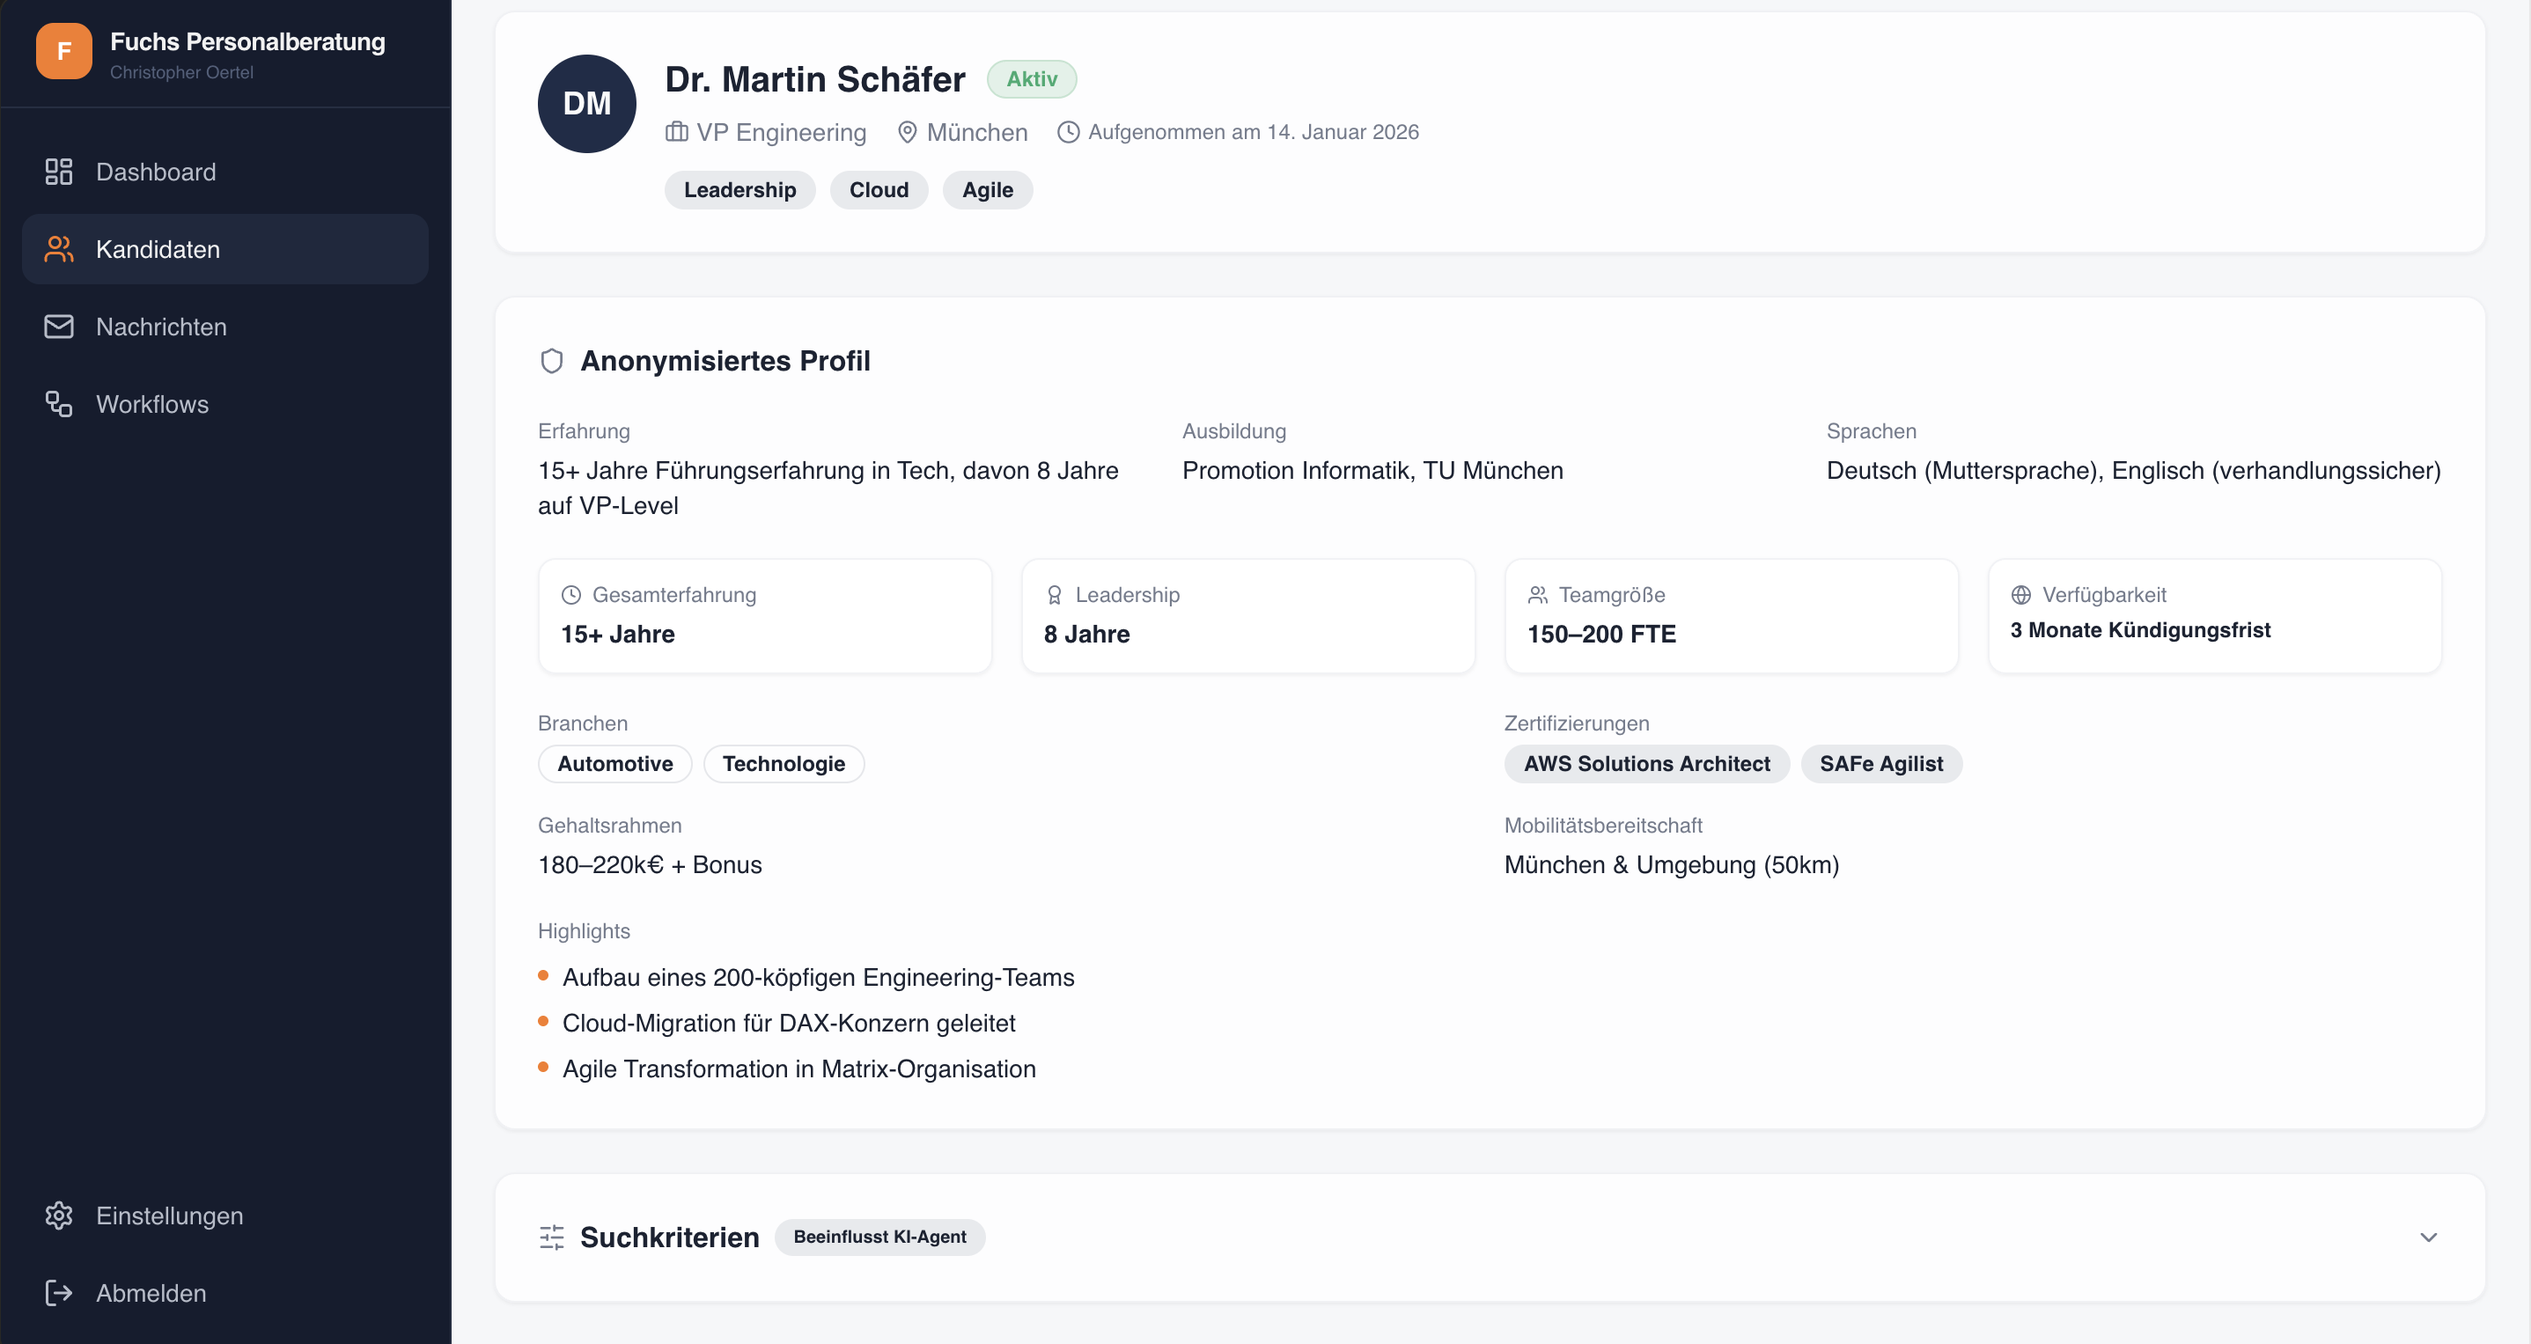
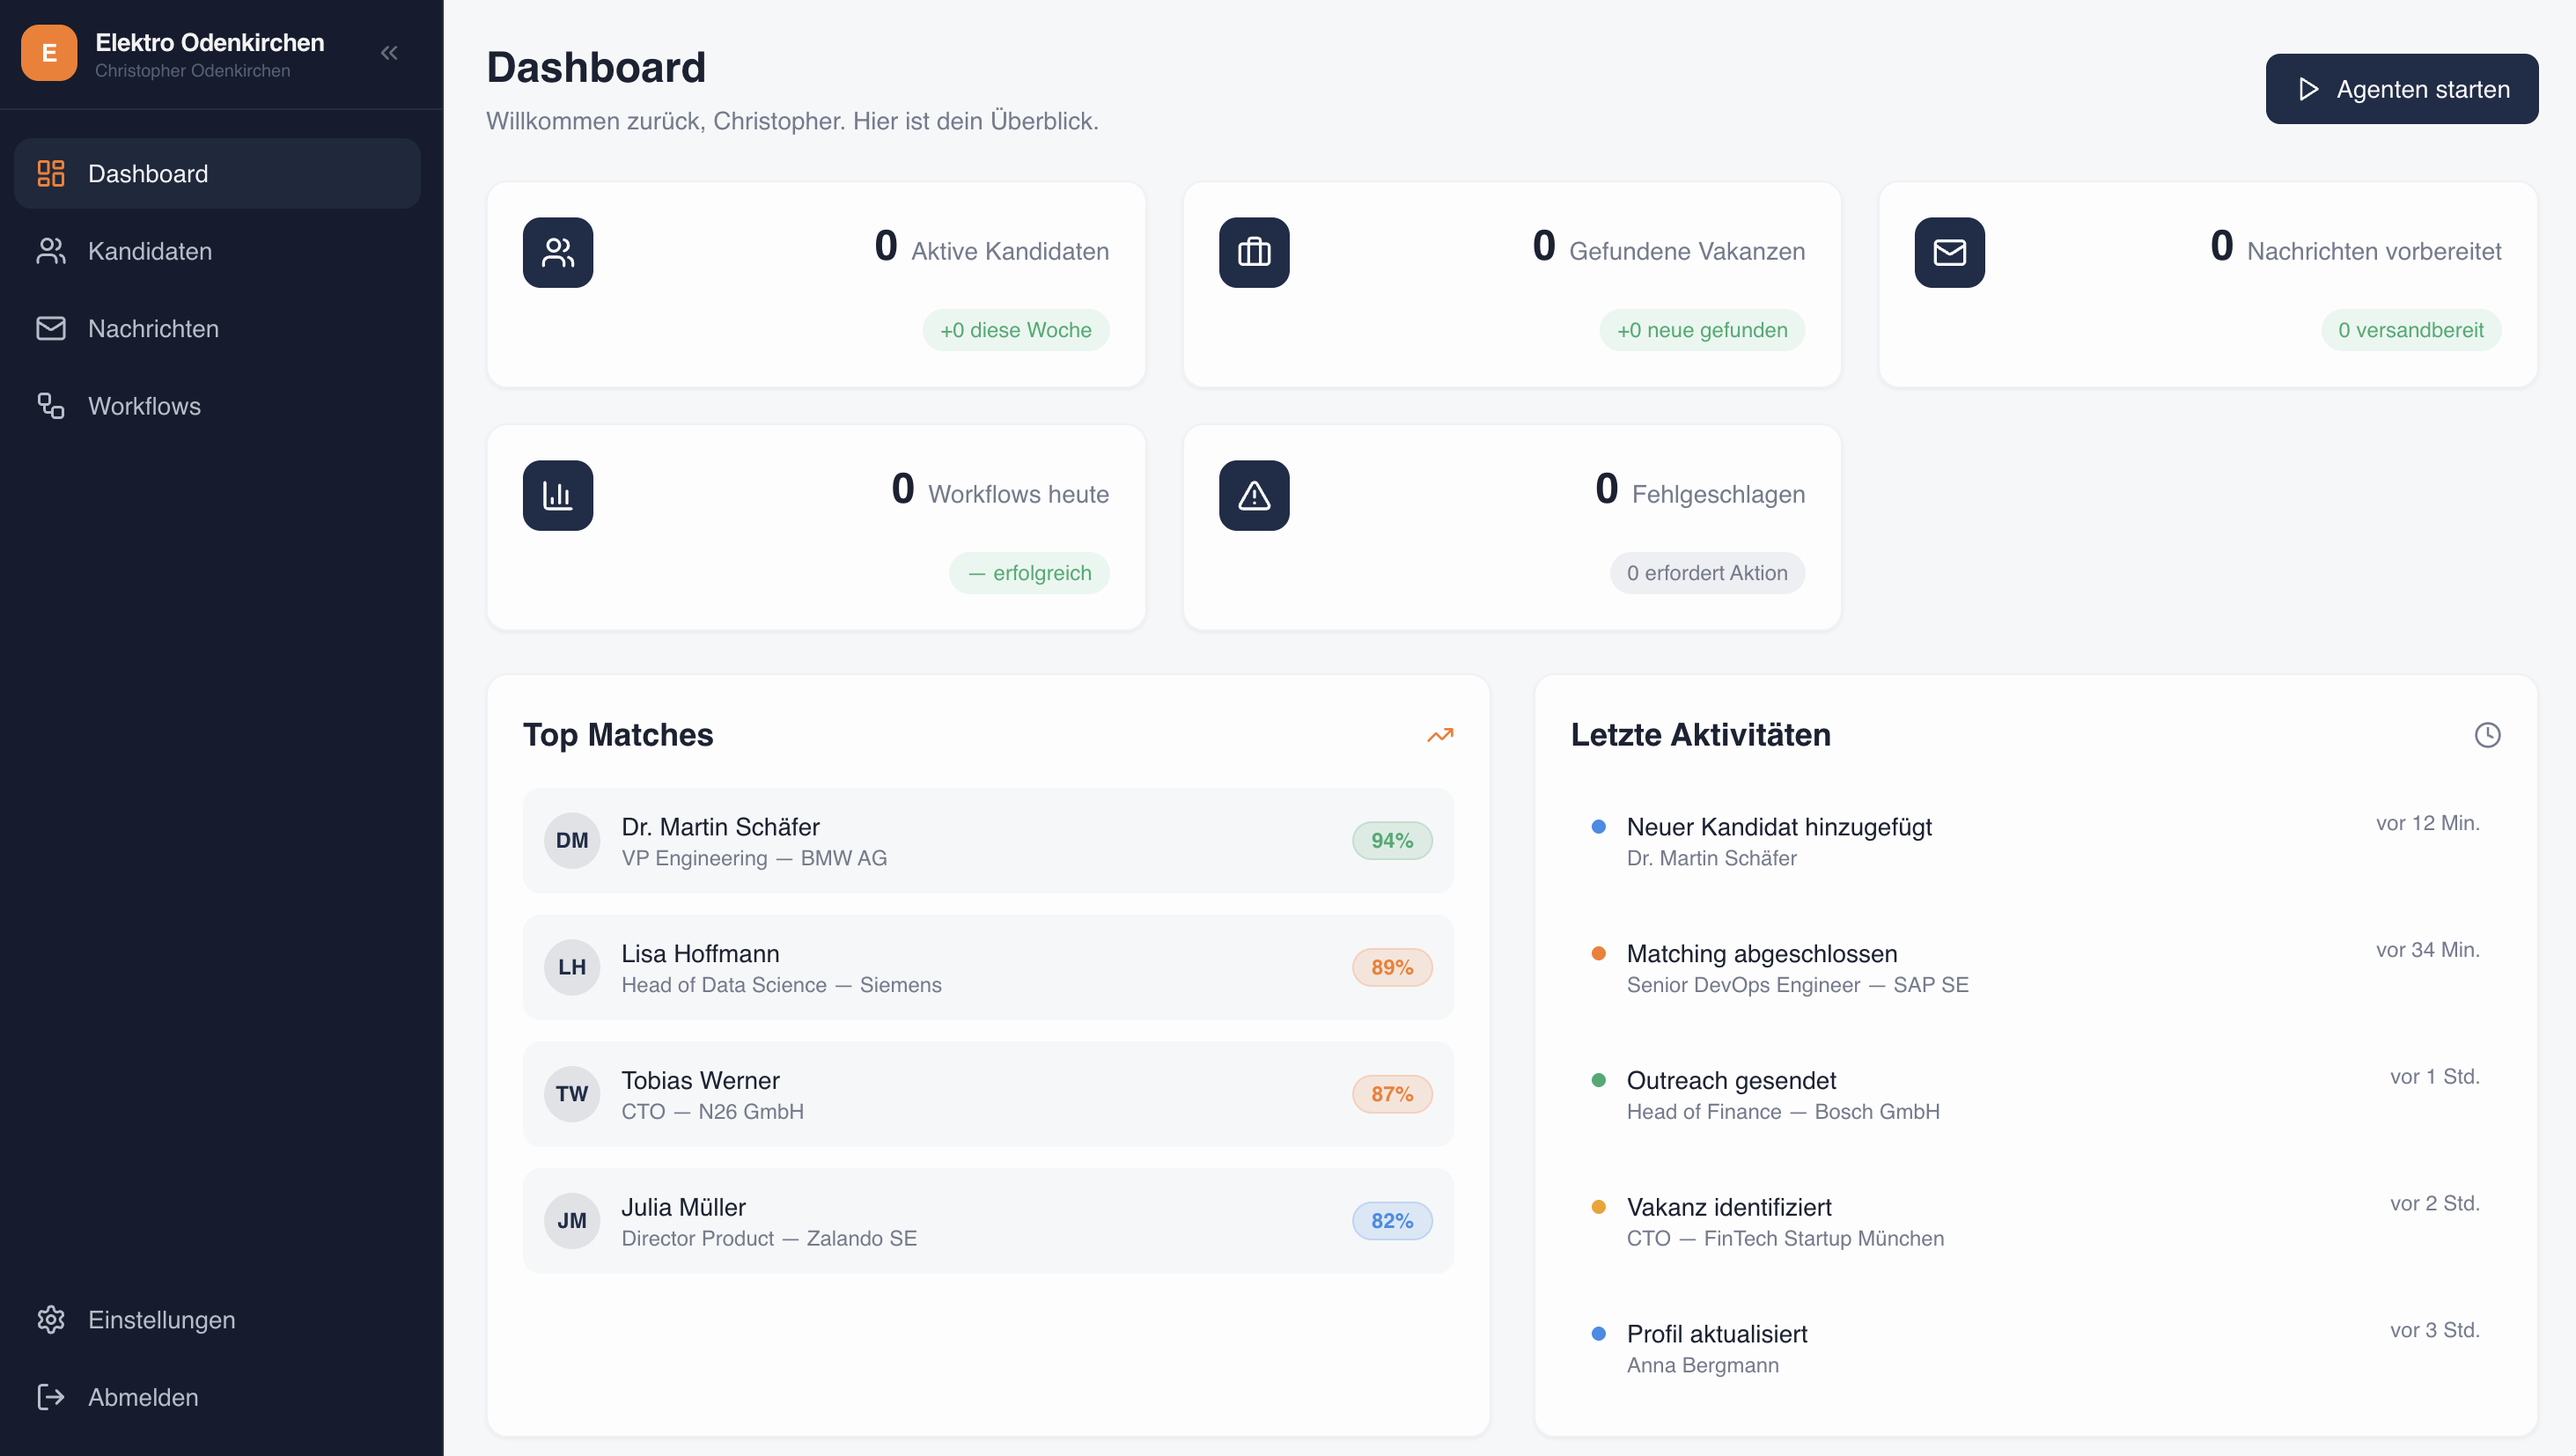
Produktbilder aktualisiert

diff --git a/src/components/landing/V5/Landing-Product-V5.vue b/src/components/landing/V5/Landing-Product-V5.vue
@@ -111,13 +111,11 @@
 </template>
 
 <script>
-import imgSuchkriterien from '@/assets/Suchkriterien-Mockup.png'
-import imgNachrichten from '@/assets/Nachrichten-Mockup.png'
-
-const screenshots = {
-  'Suchkriterien-Mockup.png': imgSuchkriterien,
-  'Nachrichten-Mockup.png': imgNachrichten,
-}
+import ProfilingAgentMockup from '@/assets/Profiling-Agent-Mockup.png'
+import MarketAgentMockup from '@/assets/Scoring-Mockup.png' 
+import MatchingAgentMockup from '@/assets/Vacancy-Mockup.png'
+import OutreachAgentMockup from '@/assets/Outreach-Agent-Mockup.png'
+import HumanInTheLoopMockup from '@/assets/Human-in-the-loop-Mockup.png'
 
 export default {
   name: 'LandingProduct',
@@ -128,14 +126,14 @@ export default {
       features: [
         {
           title: 'Profiling Agent – Bedarfsanalyse & Profiling',
-          description: 'Strukturierte Erfassung des Suchauftrags – der Agent leitet präzise Anforderungsprofile und Suchkriterien für alle nachgelagerten Agenten ab.',
+          description: 'Strukturierte Erfassung des Suchauftrags – der Agent leitet ein präzises Qualifikationsprofil und Suchkriterien für alle nachgelagerten Agenten ab.',
           points: [
-            'Strukturierte Erfassung von Anforderungen und Rahmenbedingungen',
+            'Strukturierte Erfassung von Qualifikationen und Rahmenbedingungen',
             'Automatische Ableitung von Such- und Matching-Kriterien',
             'Einheitliche Profilbasis für alle nachgelagerten Agenten',
           ],
           icon: 'M15.75 6a3.75 3.75 0 11-7.5 0 3.75 3.75 0 017.5 0zM4.501 20.118a7.5 7.5 0 0114.998 0A17.933 17.933 0 0112 21.75c-2.676 0-5.216-.584-7.499-1.632z',
-          screenshot: null,
+          screenshot: ProfilingAgentMockup,
         },
         {
           title: 'Market Agent – Vakanzidentifikation',
@@ -146,7 +144,7 @@ export default {
             'Vollständige Quellenhistorie für jede identifizierte Vakanz',
           ],
           icon: 'M21 21l-5.197-5.197m0 0A7.5 7.5 0 105.196 15.803a7.5 7.5 0 0010.607 0z',
-          screenshot: null,
+          screenshot: MarketAgentMockup,
         },
         {
           title: 'Matching Agent – Intelligentes Scoring',
@@ -157,7 +155,7 @@ export default {
             'Priorisierte Shortlist auf Anforderung',
           ],
           icon: 'M3.75 6A2.25 2.25 0 016 3.75h2.25A2.25 2.25 0 0110.5 6v2.25a2.25 2.25 0 01-2.25 2.25H6a2.25 2.25 0 01-2.25-2.25V6zM3.75 15.75A2.25 2.25 0 016 13.5h2.25a2.25 2.25 0 012.25 2.25V18a2.25 2.25 0 01-2.25 2.25H6A2.25 2.25 0 013.75 18v-2.25zM13.5 6a2.25 2.25 0 012.25-2.25H18A2.25 2.25 0 0120.25 6v2.25A2.25 2.25 0 0118 10.5h-2.25a2.25 2.25 0 01-2.25-2.25V6zM13.5 15.75a2.25 2.25 0 012.25-2.25H18a2.25 2.25 0 012.25 2.25V18A2.25 2.25 0 0118 20.25h-2.25a2.25 2.25 0 0113.5 18v-2.25z',
-          screenshot: 'Suchkriterien-Mockup.png',
+          screenshot: MatchingAgentMockup,
         },
         {
           title: 'Outreach Agent – Kontaktierung & Engagement',
@@ -168,7 +166,7 @@ export default {
             'Freigabe per Klick – kein manueller Aufwand',
           ],
           icon: 'M6 12L3.269 3.126A59.768 59.768 0 0121.485 12 59.77 59.77 0 013.27 20.876L5.999 12zm0 0h7.5',
-          screenshot: 'Nachrichten-Mockup.png',
+          screenshot: OutreachAgentMockup,
         },
         {
           title: 'Human-in-the-Loop',
@@ -179,36 +177,35 @@ export default {
             'Jederzeit steuerbar, konfigurierbar und anpassbar',
           ],
           icon: 'M9 12.75L11.25 15 15 9.75m-3-7.036A11.959 11.959 0 013.598 6 11.99 11.99 0 003 9.749c0 5.592 3.824 10.29 9 11.623 5.176-1.332 9-6.03 9-11.622 0-1.31-.21-2.571-.598-3.751h-.152c-3.196 0-6.1-1.248-8.25-3.285z',
-          screenshot: null,
+          screenshot: HumanInTheLoopMockup,
         }
       ]
     }
   },
   computed: {
     currentFeature() {
-      return this.features[this.currentIndex] || this.features[0];
+      return this.features[this.currentIndex] || this.features[0]
     },
     currentImage() {
-      if (!this.currentFeature?.screenshot) return null;
-      return screenshots[this.currentFeature.screenshot] || null;
+      return this.currentFeature?.screenshot || null
     },
     mobileTitle() {
-      if (!this.currentFeature?.title) return '';
-      const parts = this.currentFeature.title.split(' – ');
-      return parts.length > 1 ? parts[1] : this.currentFeature.title;
+      if (!this.currentFeature?.title) return ''
+      const parts = this.currentFeature.title.split(' – ')
+      return parts.length > 1 ? parts[1] : this.currentFeature.title
     }
   },
   methods: {
     goTo(index) {
-      this.currentIndex = index;
+      this.currentIndex = index
     },
     openLightbox(src, title) {
-      this.lightbox = { open: true, src, title };
-      document.body.style.overflow = 'hidden';
+      this.lightbox = { open: true, src, title }
+      document.body.style.overflow = 'hidden'
     },
     closeLightbox() {
-      this.lightbox.open = false;
-      document.body.style.overflow = '';
+      this.lightbox.open = false
+      document.body.style.overflow = ''
     }
   }
 }

diff --git a/src/components/landing/V5/Landing-Pricing-V5.vue b/src/components/landing/V5/Landing-Pricing-V5.vue
@@ -179,10 +179,10 @@ export default {
         name: 'Enterprise Lizenz',
         description: 'Für Personalberater, die ihren gesamten Recruiting-Prozess automatisieren wollen.',
         tiers: [
-          { label: 'Bis zu 50 Talente',  price: '129,00€',  priceSuffix: ' / Monat' },
-          { label: '50 – 100 Talente',   price: '159,00€',  priceSuffix: ' / Monat' },
-          { label: '100 – 250 Talente',  price: '199,00€',  priceSuffix: ' / Monat' },
-          { label: 'Über 250 Talente',   price: '249,00€', priceSuffix: ' / Monat' },
+          { label: 'Bis zu 50 Talente',  price: '--,--€',  priceSuffix: ' / Monat' },
+          { label: '50 – 100 Talente',   price: '--,--',  priceSuffix: ' / Monat' },
+          { label: '100 – 250 Talente',  price: '--,--€',  priceSuffix: ' / Monat' },
+          { label: 'Über 250 Talente',   price: '--,--€', priceSuffix: ' / Monat' },
         ],
         features: [
           { label: '3 Mitarbeiter-Lizenzen', icon: Users },
@@ -194,7 +194,7 @@ export default {
       addon: {
         name: 'Zusätzliche Mitarbeiter',
         description: 'Für wachsende Teams – alle Leistungen der Enterprise Lizenz, skalierbar je Mitarbeiter.',
-        price: '19,99€',
+        price: '--,--€',
         priceSuffix: ' / pro weitere Lizenz & Monat',
         features: [
           { label: 'Alle Leistungen der Enterprise Lizenz', icon: PlusCircle },

diff --git a/src/views/View-Landing.vue b/src/views/View-Landing.vue
@@ -21,7 +21,7 @@
 import Header from '@/components/header/Header.vue'
 import LandingHero from '@/components/landing/V5/Landing-Hero-V5.vue'
 import LandingBenefits from '@/components/landing/V5/Landing-Benefits-V5.vue'
-import LandingProduct from '@/components/landing/V5//Landing-Product-V5.vue'
+import LandingProduct from '@/components/landing/V5/Landing-Product-V5.vue'
 // import LandingWorkflow from '@/components/landing/Landing-Workflow.vue'
 import LandingTestimonials from '@/components/landing/V5/Landing-Testimonials-V5.vue'
 import LandingCta from '@/components/landing/V4/Landing-CTA-V4.vue'

diff --git a/src/components/landing/V5/Landing-Hero-V5.vue b/src/components/landing/V5/Landing-Hero-V5.vue
@@ -80,7 +80,7 @@
               <!-- Screenshot -->
               <img
                 class="w-full object-cover object-top"
-                src="@/assets/Dashboard-Mockup.png"
+                src="@/assets/Candidate-Mockup.png"
                 alt="Zentrales Berater-Dashboard für KI-gestütztes Matching"
                 width="2700"
                 height="1440"
